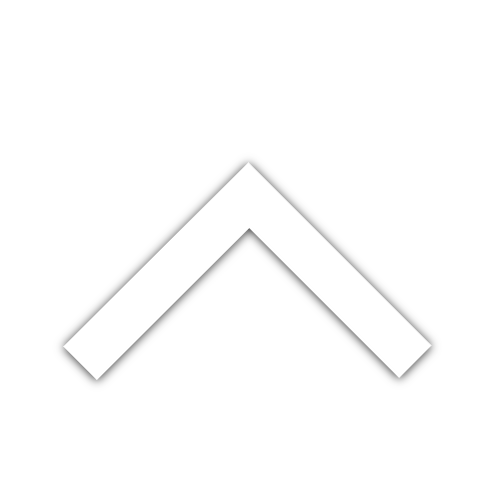
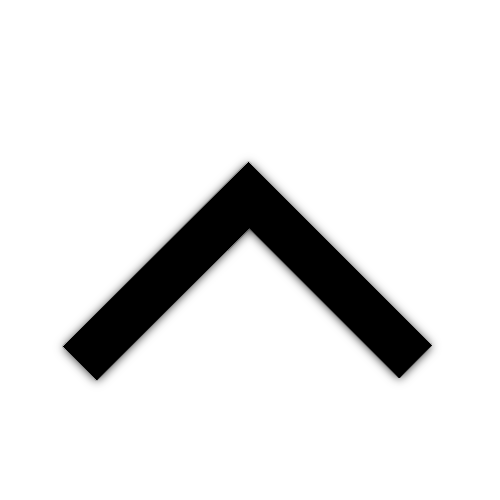
prev button

Changed region(s): [[0.12, 0.3, 0.87, 0.78]]

diff --git a/index.html b/index.html
@@ -46,7 +46,7 @@
       <br>
       <p style="color:white"> Convert these buttons into scrollable functions</p>
 
-      <button onclick="start(),introtext();">Start</button>
+      <!-- <button onclick="start(),introtext();">Start</button> -->
 
       <button onclick='callUseCase()'>Satellite Types</button>
 
@@ -75,6 +75,7 @@
   <!-- <div class="testViewPort"></div> -->
 
   <div class="useByCountryView">
+    <button class="usePrevButton" onclick='callFirstSection()'><p>BACK</p><img class="useCaseNext" src="assets/white-up-arrow.png" alt="next section" /></button>
     <p class="useDesc">Lorem ipsum dolor sit amet, consectetur adipiscing elit, sed do eiusmod tempor incididunt ut labore et dolore magna aliqua.
       Ut enim ad minim veniam, quis nostrud exercitation ullamco laboris nisi ut aliquip ex ea commodo consequat. Duis aute
       irure dolor in reprehenderit in voluptate velit esse cillum dolore eu fugiat nulla pariatur.</p>
@@ -86,7 +87,7 @@
 
     <div class="useVizBody">
       <p class="useTitle">SATELLITE USE CASE BY COUNTRY</p>
-      <p class="useDesc">Currently over 40 countries have built and launched satellites. This is a vast increase of the last couple of decades. For example, in 1966 only The United States, The USSR, France, The United Kingdom, Canada, and Italy had satellites. Now more and more countries are enjoying the benefits of satellites! Currently the United States leads the way with 803 operating satellites, with Russia and China following behind. As you can see from the graphs each country uses their satellites for a wide variety of purposes and do not have the same makeup of types of satellites.</p>
+      <p class="useDesc2">Currently over 40 countries have built and launched satellites. This is a vast increase of the last couple of decades. For example, in 1966 only The United States, The USSR, France, The United Kingdom, Canada, and Italy had satellites. Now more and more countries are enjoying the benefits of satellites! Currently the United States leads the way with 803 operating satellites, with Russia and China following behind. As you can see from the graphs each country uses their satellites for a wide variety of purposes and do not have the same makeup of types of satellites.</p>
     </div>
 
     <div class="smallMultiples"></div>

diff --git a/style.css b/style.css
@@ -221,7 +221,7 @@ div {
 .useVizBody{
     display: inline-block;
     height:100%;
-    width: 54%;
+    width: 44%;
     background-color: white;
 }
 
@@ -273,7 +273,7 @@ div {
     display: none;
     width: 100px;
     height: 80px;
-    margin: 0 auto;
+    margin-left: 100px;
 }
 
 .useNextButton p {
@@ -282,6 +282,29 @@ div {
     margin-left: 0px;
     font-size: 14px;
     color: white;
+}
+
+.usePrevButton {
+    background: none;
+    color: black;
+    border: none;
+    padding: 0;
+    cursor: pointer !important;
+    outline: inherit;
+    display: block;
+    width: 100px;
+    height: 80px;
+    margin-top: 20px;
+    margin-bottom: -80px;
+    margin-left: 90%;
+}
+
+.usePrevButton p {
+    margin-top: 0;
+    margin-bottom: -78px;
+    margin-left: 0px;
+    font-size: 14px;
+    color: black;
 }
 
 /* Text Elements */
@@ -317,6 +340,13 @@ div {
     margin: 0 auto;
     margin-top: 40px;
     width: 80%;
+}
+
+.useDesc2{
+    margin: 0 auto;
+    margin-top: 40px;
+    width: 90%;
+    margin-right: 0;
 }
 
 /* Chart 2 axis */

diff --git a/helpers.js b/helpers.js
@@ -261,6 +261,13 @@ function callNextSection() {
    // TODO: plot_small_multiples(data)
 }
 
+function callFirstSection() {
+    // $('.spaceView1').css("display", "block");
+    $("html, body").animate({
+        scrollTop: $('.spaceView1').offset().top
+   }, 300);
+}
+
 
 
 let filter_year_and_purpose = function(data, year, purpose) {
